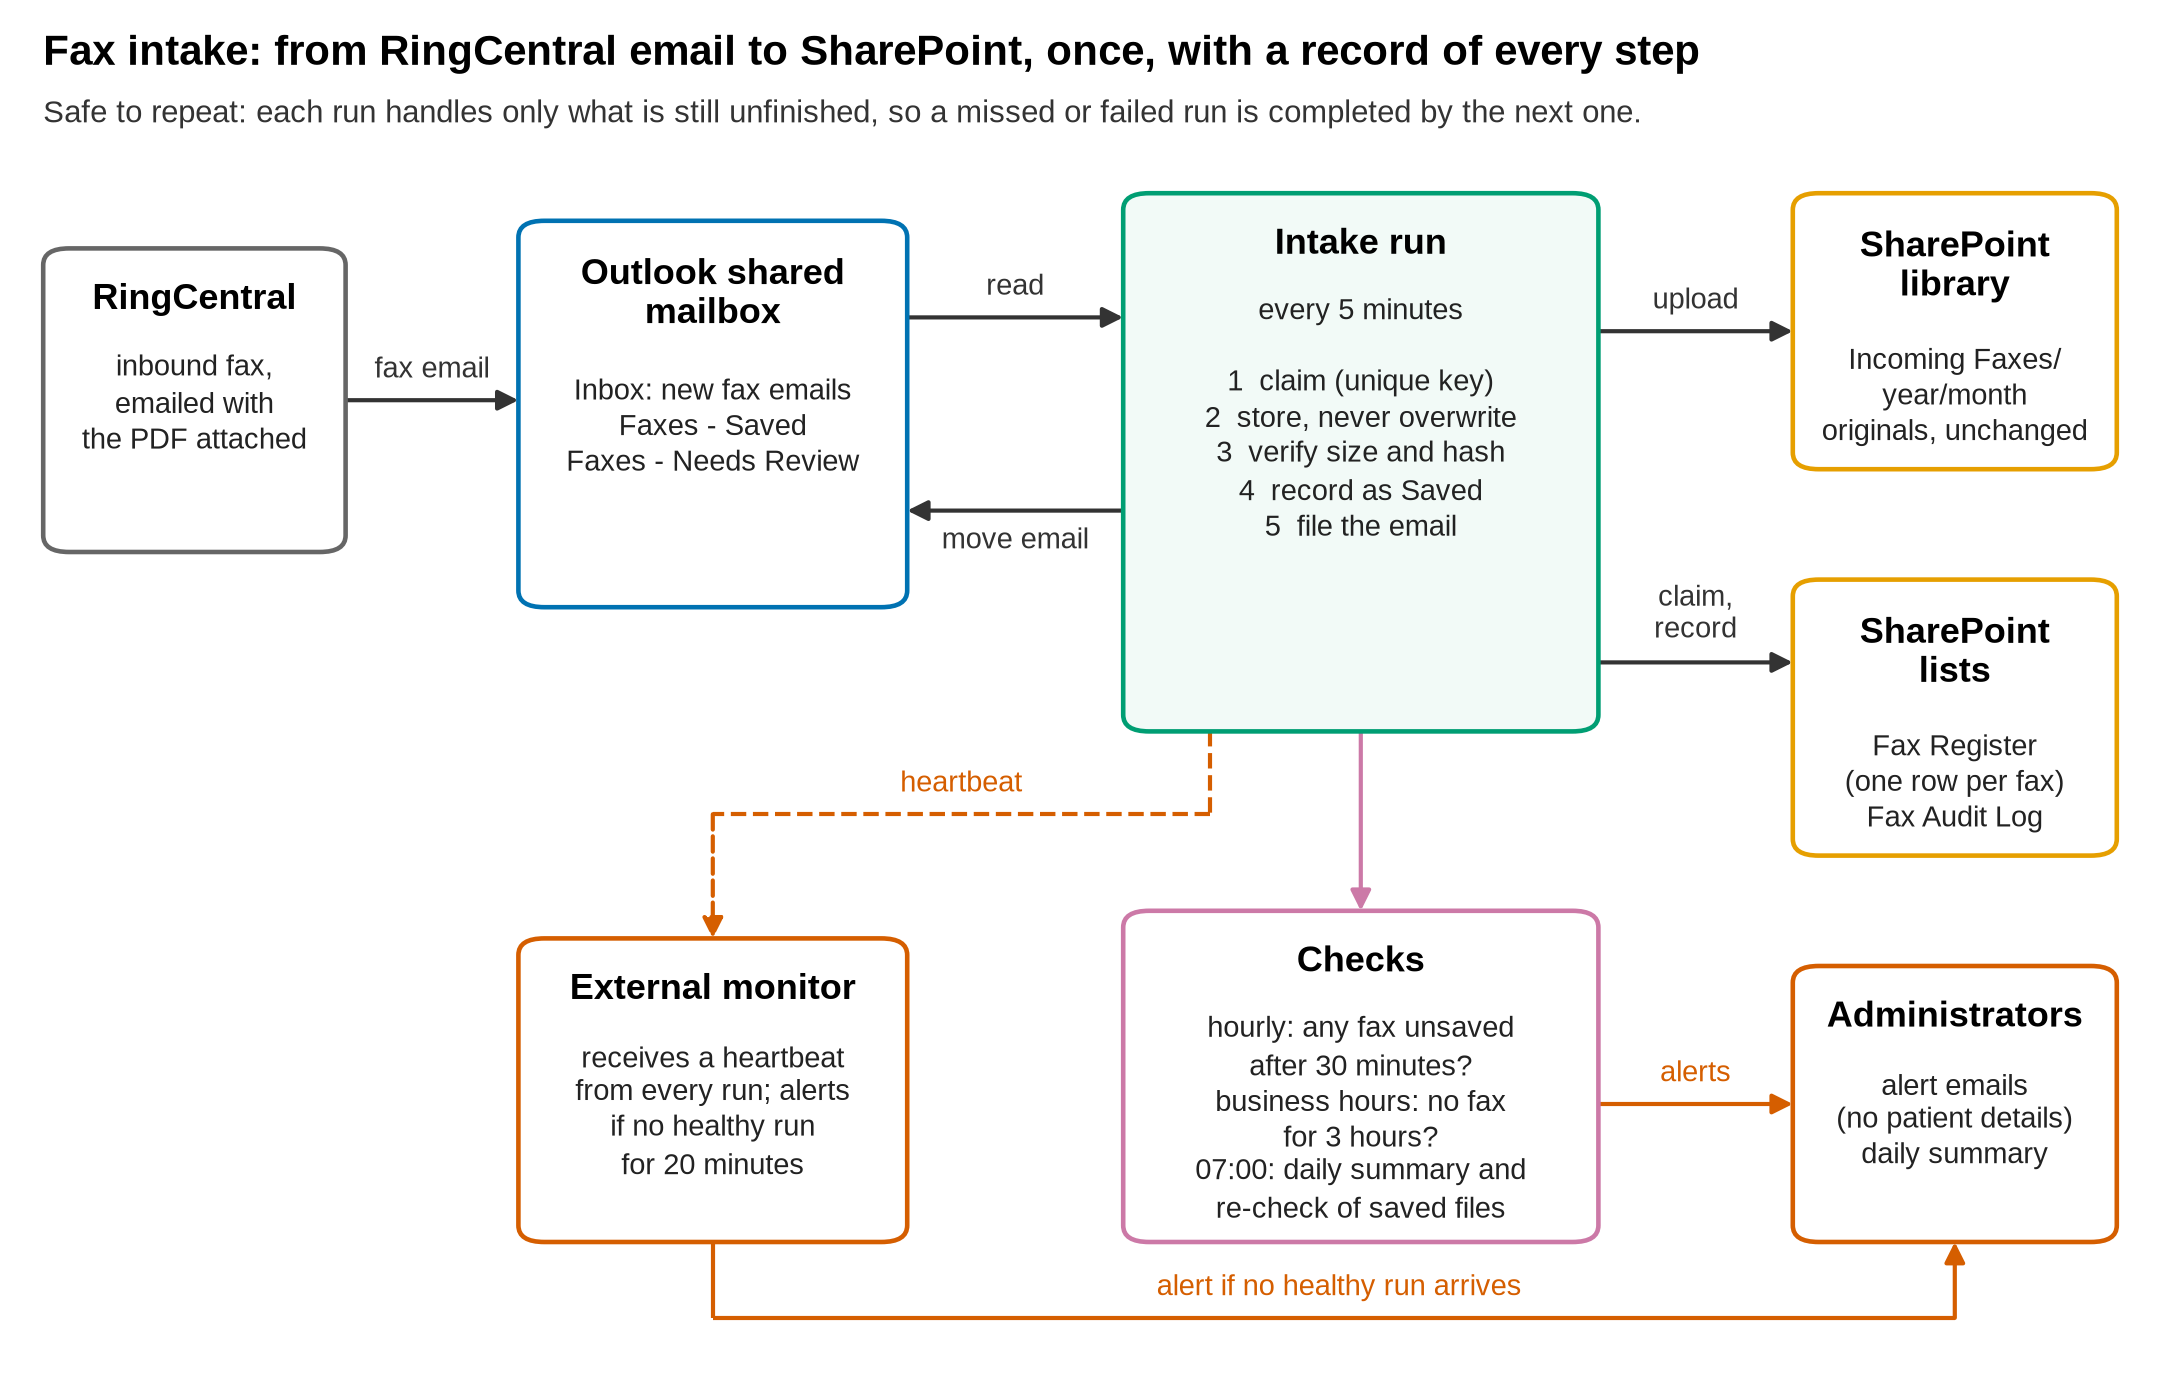
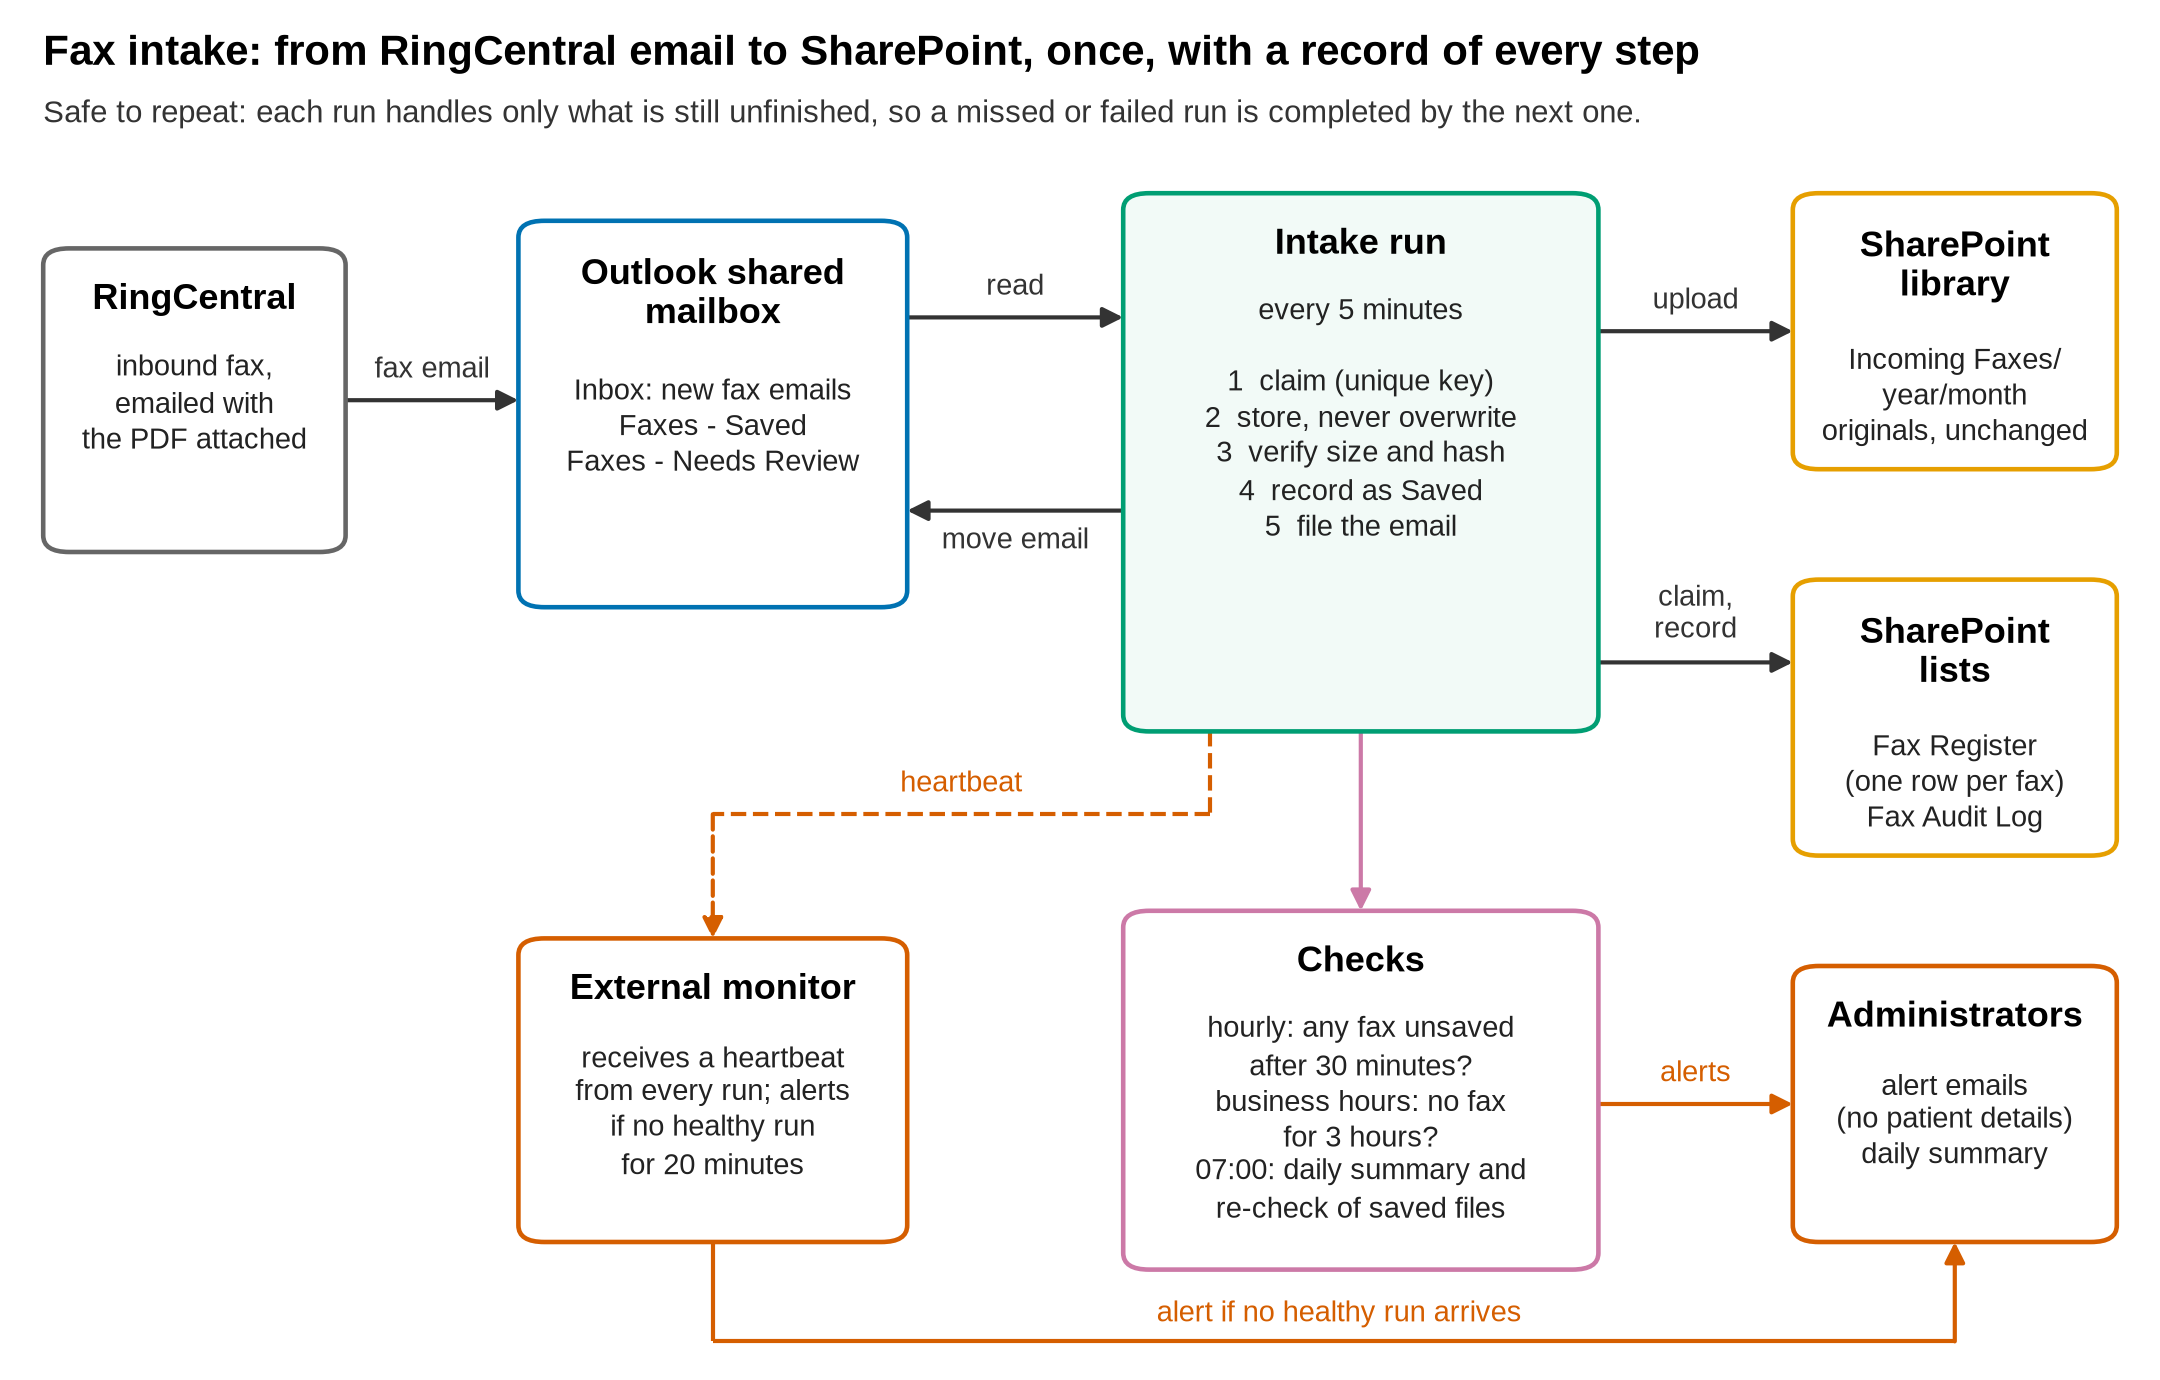
Architecture diagram: more room in the checks box; lower alert route

Changed region(s): [[0.5273, 0.8725, 0.7444, 0.9659]]

diff --git a/scripts/make_figures.py b/scripts/make_figures.py
@@ -129,8 +129,8 @@ def architecture(out: Path) -> None:
     d.path([(0.74, 0.20), (0.83, 0.20)], OI["red"]); d.label(0.785, 0.212, "alerts", OI["red"])
     d.path([(0.56, 0.47), (0.56, 0.41), (0.33, 0.41), (0.33, 0.32)], OI["red"], ls="--")
     d.label(0.445, 0.422, "heartbeat", OI["red"])
-    d.path([(0.33, 0.10), (0.33, 0.045), (0.905, 0.045), (0.905, 0.10)], OI["red"])
-    d.label(0.62, 0.057, "alert if no healthy run arrives", OI["red"])
+    d.path([(0.33, 0.10), (0.33, 0.028), (0.905, 0.028), (0.905, 0.10)], OI["red"])
+    d.label(0.62, 0.038, "alert if no healthy run arrives", OI["red"])
     problems = d.check(fig)
     if problems:
         raise SystemExit("architecture layout problems:\n  " + "\n  ".join(problems))
